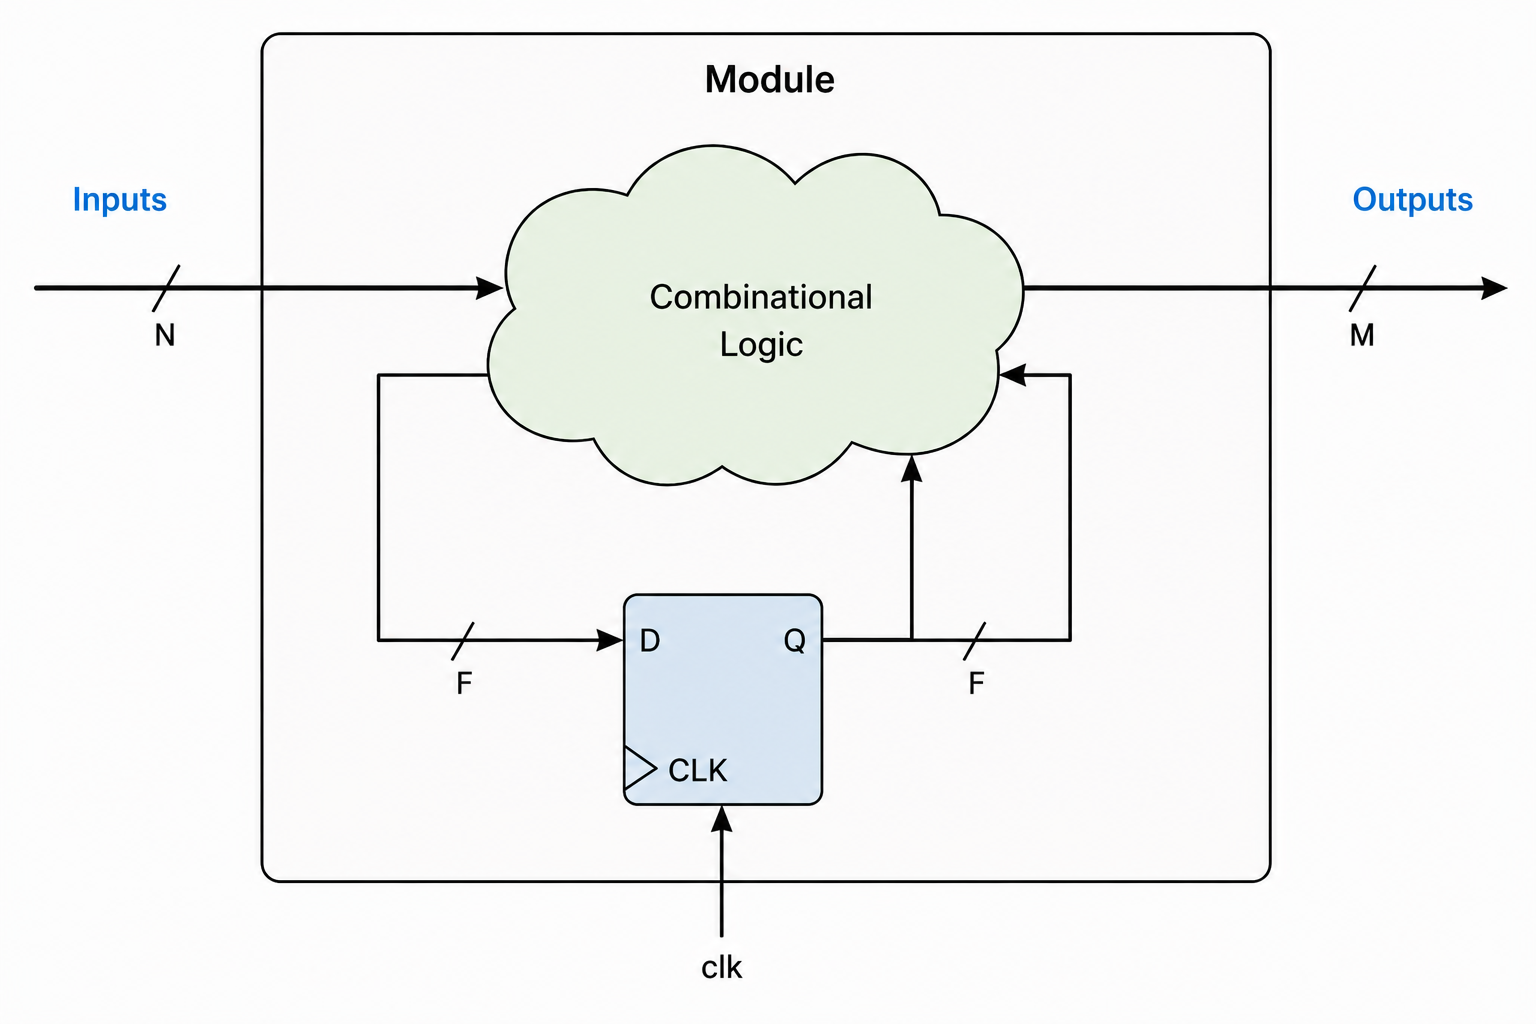
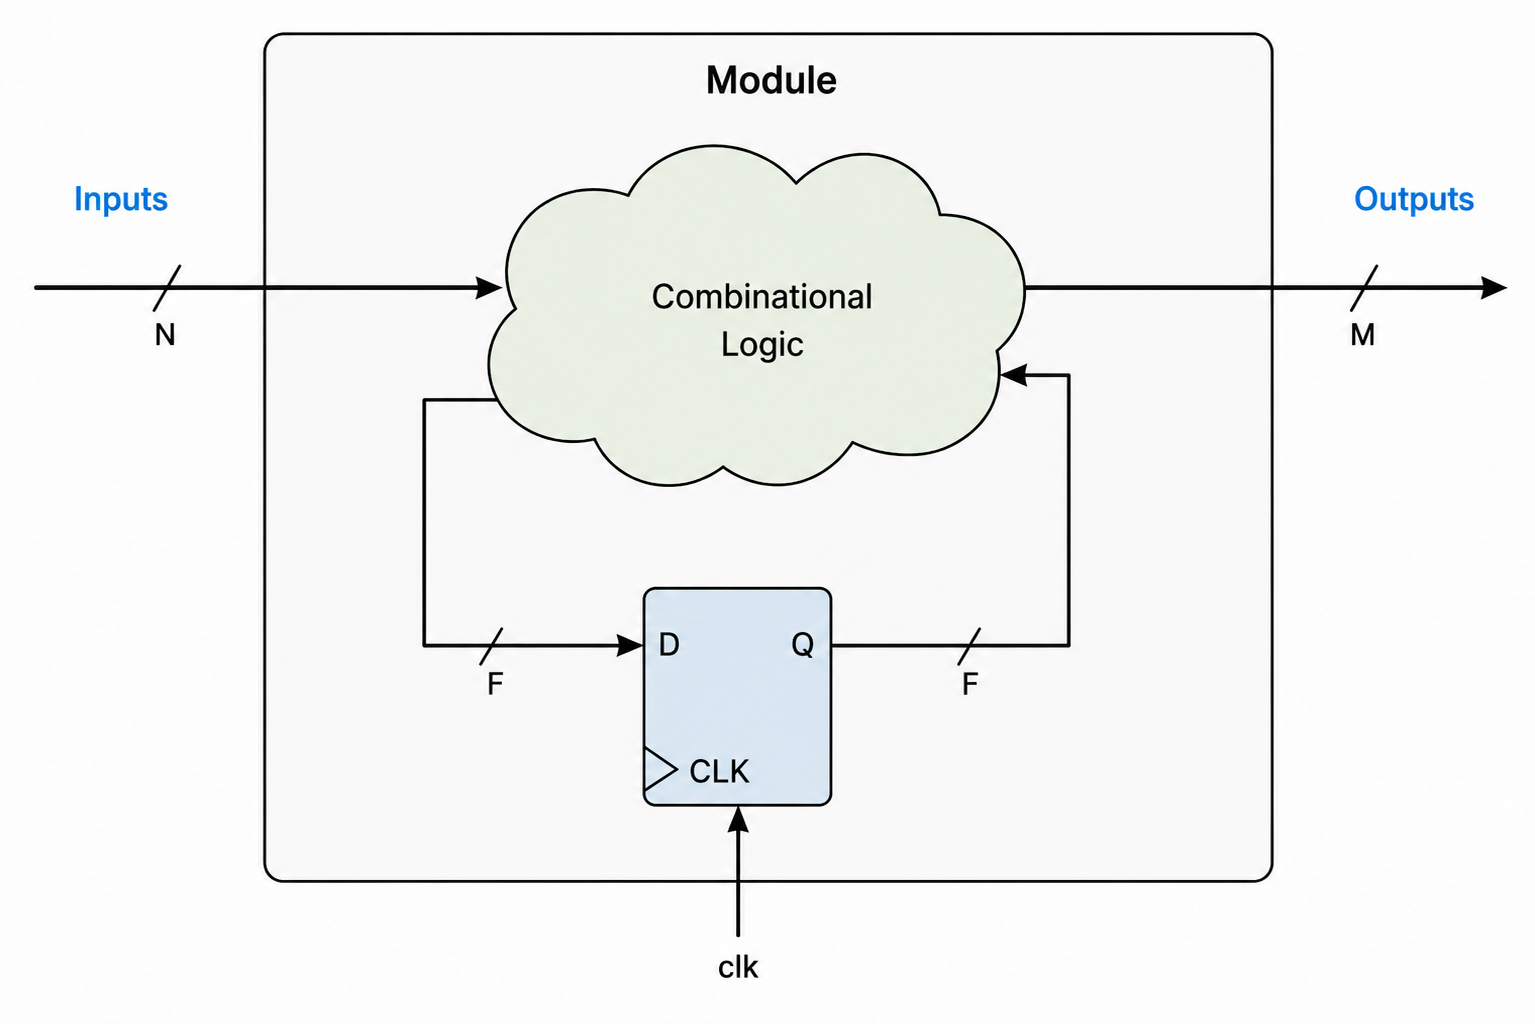
updates

diff --git a/content/blog/a-minimal-ir-for-rtl/a-minimal-ir-for-rtl.md b/content/blog/a-minimal-ir-for-rtl/a-minimal-ir-for-rtl.md
@@ -10,29 +10,30 @@ in the 1980s really threw me off.
 
 As opinionated as I am, I spent many of my working hours complaining about
 Verilog semantics, UVM, tool failures and backwards workflows (anyone
-unfortunate enough to have worked with me can confirm this). For many years
-these were just complaints, but with the beginning of 2026 and my discovery of
-Agentic coding, I decided to give a try to an idea I had in mind for a long
-time: a verilog-like HDL, without all the pain of the original language, with
-similar syntax but with extended capabilities.
+unfortunate enough to have worked with me can confirm this). After many years
+complaining, at the beginning of 2026 and I discovered the virtues of agentic
+coding and decided to give a try to an idea I had in mind for a long time: a
+verilog-like HDL, without all the pain of the original language, with similar
+syntax but with extended capabilities.
 
-Being totally ignorant on the topic of Programming Language Design (specially
-due to being an Electronics Engineer by training, not a computer scientist) I
-decided to start by developing a "Verilog compiler", which would then could get
-"easily extended" to a new language.
+Being totally ignorant on the topic of programming language/compiler development
+(specially due to being an Electronics Engineer by training) I decided to start
+by developing a "Verilog compiler", which would then could get "easily extended"
+to a new language.
 
 Little did I know this side project would get me almost obsessed to the point of
-still being working on it 7 months later (AI psychosis is real!). What ended up
+still being working on it 7 months later (AI psychosis?). What ended up
 happening is the development of [Mate IR
 🧉](https://github.com/miguel9554/mateIR), an IR for synthesizable RTL which
-currently has a pretty much complete SystemVerilog compiler.
+currently has a pretty much complete SystemVerilog compiler and simulator.
 
 # "Compiling" Verilog
 
 One of the things that always feels odd about writing SystemVerilog/VHDL, is how
 often the word "infer" is said. You don't declare a flop: you write procedural
-code that is then _inferred_ to be a flop. To me this always was so absurd! To
-describe a simple counter we do the following:
+code that is then _inferred_ to be a flop. To me this always was so absurd!
+
+A simple 8-bit counter looks like this
 
 ```verilog
 logic [8-1:0] counter;